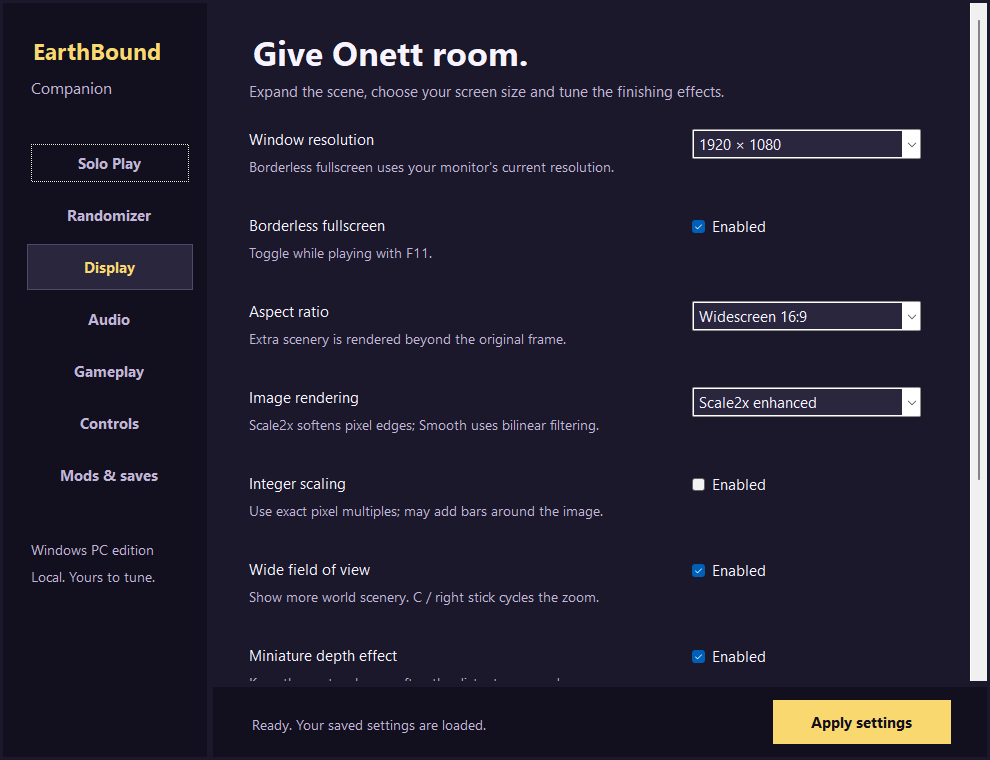
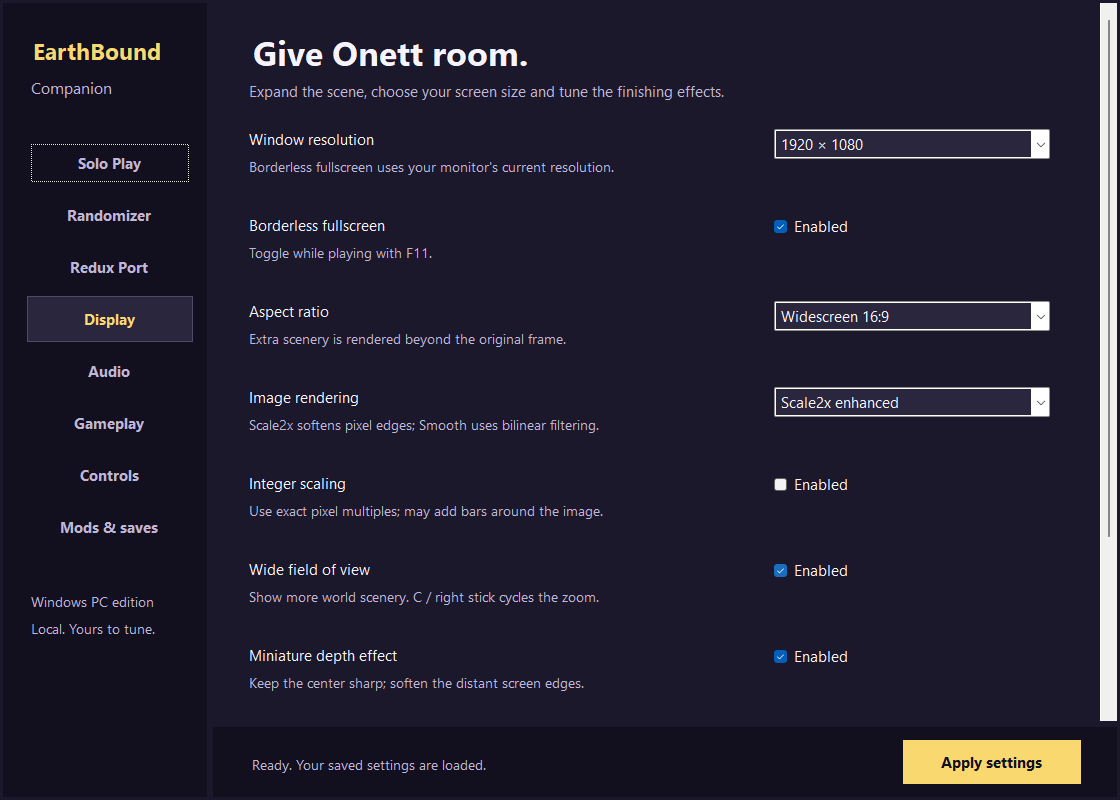
Show MaternalBound direction and refresh screenshots

diff --git a/Companion/MaternalBoundPage.cs b/Companion/MaternalBoundPage.cs
@@ -1,0 +1,34 @@
+namespace EarthBoundCompanion;
+
+sealed partial class MainForm {
+ void MaternalBoundPage(){
+  Header("MaternalBound goes native.","The project is converting MaternalBound Redux into the PC edition—not merely running its ROM patch through an emulator.");
+
+  var statusCard=new TableLayoutPanel(){Height=88,ColumnCount=2,RowCount=1,BackColor=Theme.Surface,Padding=new Padding(18,13,18,13),Margin=new Padding(0,4,0,14)};
+  statusCard.ColumnStyles.Add(new ColumnStyle(SizeType.Percent,72));statusCard.ColumnStyles.Add(new ColumnStyle(SizeType.Percent,28));
+  var statusText=new FlowLayoutPanel(){Dock=DockStyle.Fill,FlowDirection=FlowDirection.TopDown,WrapContents=false,Margin=Padding.Empty};
+  var statusTitle=Theme.Text("Native Redux conversion",15);statusTitle.Font=Theme.Font(15,FontStyle.Bold);statusTitle.Margin=new Padding(0,0,0,3);
+  statusText.Controls.Add(statusTitle);statusText.Controls.Add(Theme.Text("Active development · v0.5",10,Theme.Muted));statusCard.Controls.Add(statusText,0,0);
+  var badge=Theme.Text("PORT IN PROGRESS",10,Theme.Gold);badge.Font=Theme.Font(10,FontStyle.Bold);badge.Dock=DockStyle.Fill;badge.TextAlign=ContentAlignment.MiddleRight;badge.AutoSize=false;statusCard.Controls.Add(badge,1,0);page.Controls.Add(statusCard);
+
+  Section("The edition we are building");
+  page.Controls.Add(Theme.Text("MaternalBound Redux's restored writing, presentation and fixes · Native x64 gameplay · HD and ultrawide output · MSU music · PC controls and settings · QoL profiles · Safe randomized adventures",11));
+
+  var stages=new TableLayoutPanel(){Height=180,ColumnCount=2,RowCount=1,Margin=new Padding(0,4,0,8)};
+  stages.ColumnStyles.Add(new ColumnStyle(SizeType.Percent,50));stages.ColumnStyles.Add(new ColumnStyle(SizeType.Percent,50));
+  stages.Controls.Add(PortCard("WORKING NOW",Theme.Green,"Official Redux source builds locally\nNative conversion bridge and asset inventory\n190 script modules and 7,840 labels indexed\nVersioned asset, save and seed profiles\nRandomizer rejects unaudited content"),0,0);
+  stages.Controls.Add(PortCard("BEING CONVERTED",Theme.Gold,"Rewritten dialogue and event scripts\nRedux graphics, data and encounter changes\n65816 assembly behavior in native C\nMaternalBound progression policy\nStart-to-ending gameplay verification"),1,0);
+  page.Controls.Add(stages);
+
+  Section("Story Shuffle v3");
+  page.Controls.Add(Theme.Text("Every seed is tied to its exact game edition, asset hash, safety policy and save folder. MaternalBound generation stays locked until its native data and progression audit are complete, protecting adventures from mixed-version saves and known progression failures.",11,Theme.Muted));
+  page.Controls.Add(Theme.Text("Current public test build: original EarthBound story. MaternalBound Redux gameplay will be enabled only after the native conversion and its safety checks pass.",10,Theme.Muted));
+ }
+
+ static Panel PortCard(string title,Color color,string body){
+  var card=new Panel(){Dock=DockStyle.Fill,BackColor=Theme.Rail,Padding=new Padding(18,16,18,12),Margin=new Padding(0,0,10,0)};
+  var stack=new FlowLayoutPanel(){Dock=DockStyle.Fill,FlowDirection=FlowDirection.TopDown,WrapContents=false,Margin=Padding.Empty};
+  var heading=Theme.Text(title,10,color);heading.Font=Theme.Font(10,FontStyle.Bold);heading.Margin=new Padding(0,0,0,10);stack.Controls.Add(heading);
+  var copy=Theme.Text(body,10,Theme.Muted);copy.MaximumSize=new Size(330,0);copy.Margin=Padding.Empty;stack.Controls.Add(copy);card.Controls.Add(stack);return card;
+ }
+}

diff --git a/Companion/Program.cs b/Companion/Program.cs
@@ -56,7 +56,7 @@ sealed partial class MainForm : Form {
  Settings settings=Settings.Load();readonly FlowLayoutPanel nav=new(),page=new();readonly Label status=new();
  readonly System.Windows.Forms.Timer timer=new(){Interval=350};readonly Dictionary<string,Button> navigation=[];
  Process? game;string current="Solo Play";bool settingsRequested;bool captureMode;int captureIndex;string captureDir="";bool capturePrepared;bool captureScrolled;
- readonly string[] pages=["Solo Play","Randomizer","Display","Audio","Gameplay","Controls","Mods & saves"];
+ readonly string[] pages=["Solo Play","Randomizer","Redux Port","Display","Audio","Gameplay","Controls","Mods & saves"];
  public MainForm(string[] args){
   Text="EarthBound Companion";Font=Theme.Font();BackColor=Theme.Canvas;ForeColor=Theme.Ink;ClientSize=new Size(1120,800);MinimumSize=new Size(990,760);StartPosition=FormStartPosition.CenterScreen;
   if(args.Contains("--compact"))ClientSize=new Size(990,760);
@@ -89,7 +89,7 @@ sealed partial class MainForm : Form {
  void ShowPage(string name){
   current=name;page.SuspendLayout();foreach(Control c in page.Controls.Cast<Control>().ToArray())c.Dispose();page.Controls.Clear();page.AutoScrollPosition=Point.Empty;
   foreach(var (n,b) in navigation){b.BackColor=n==name?Theme.Surface:Theme.Rail;b.ForeColor=n==name?Theme.Gold:Theme.Muted;b.FlatAppearance.BorderColor=n==name?Theme.Line:Theme.Rail;}
-  switch(name){case "Solo Play":PlayPage();break;case "Randomizer":RandomizerPage();break;case "Display":DisplayPage();break;case "Audio":AudioPage();break;case "Gameplay":GameplayPage();break;case "Controls":ControlsPage();break;default:ModsPage();break;}
+  switch(name){case "Solo Play":PlayPage();break;case "Randomizer":RandomizerPage();break;case "Redux Port":MaternalBoundPage();break;case "Display":DisplayPage();break;case "Audio":AudioPage();break;case "Gameplay":GameplayPage();break;case "Controls":ControlsPage();break;default:ModsPage();break;}
   page.Controls.Add(new Panel {Height=32,Margin=Padding.Empty});
   ResizePage();page.ResumeLayout();
  }

diff --git a/README.md b/README.md
@@ -1,11 +1,11 @@
 # EarthBound Companion
 
-**A ROM-free native Windows PC edition of EarthBound with a guided launcher, modern display options, quality-of-life controls, native MSU music, and a progression-conscious randomizer.**
+**A native Windows adaptation of EarthBound that is now evolving into a MaternalBound Redux PC edition with HD and ultrawide output, native MSU music, PC settings, quality-of-life options, mod profiles, and a progression-conscious randomizer.**
 
 > [!WARNING]
-> **The current v0.4.0 build uses the original EarthBound (USA) story and does not contain MaternalBound Redux.** Its MSU player understands Redux's soundtrack loop data, but Redux's rewritten script, graphics, data, and 65816 code have not yet been converted to native C. The active port is tracked in [MATERNALBOUND-NATIVE.md](MATERNALBOUND-NATIVE.md).
+> **The downloadable v0.4.0 preview uses the original EarthBound (USA) story and does not contain MaternalBound Redux.** The main v0.5 development branch has the native Redux compiler bridge, a dedicated launcher status page, and Story Shuffle v3's content profiles. Redux gameplay is still being converted and is not yet shipped. Progress is tracked in [MATERNALBOUND-NATIVE.md](MATERNALBOUND-NATIVE.md).
 
-The main source now contains Story Shuffle v3's content-profile foundation. Seeds bind to the exact selected game version, asset hash, progression policy and save namespace. MaternalBound randomization remains locked until the converted Redux pack and its separate progression audit pass; this prevents a partially ported profile from generating softlocked seeds.
+The target is one polished PC edition: MaternalBound Redux's restored writing, art, fixes, and presentation running through the native engine alongside Companion's display, audio, input, save, QoL, mod, and randomizer features. Story Shuffle v3 binds every seed to the exact selected game version, asset hash, progression policy, and save namespace. MaternalBound randomization remains locked until the converted Redux pack and its separate progression audit pass, preventing a partially ported profile from generating unsafe seeds.
 
 > [!IMPORTANT]
 > This project does **not** contain an EarthBound ROM, extracted Nintendo assets, soundtrack audio, saves, or screenshots from the game. You must provide your own legally obtained clean **EarthBound (USA)** ROM. Companion verifies it and builds the required native data locally. We do not condone piracy.
@@ -14,16 +14,16 @@ The main source now contains Story Shuffle v3's content-profile foundation. Seed
 
 ## Companion at a glance
 
-These captures come from the ROM-free package before game-data setup. They contain no extracted game artwork or screenshots.
+These are real captures from the ROM-free v0.5 development launcher before game-data setup. They contain no extracted game artwork or gameplay screenshots.
 
 <table>
   <tr>
-    <td width="50%"><img src="docs/images/solo-play.png" alt="Solo Play and first-run ROM setup"></td>
-    <td width="50%"><img src="docs/images/story-shuffle.png" alt="Story Shuffle randomizer options"></td>
+    <td width="50%"><img src="docs/images/redux-port.png" alt="MaternalBound Redux native port status"></td>
+    <td width="50%"><img src="docs/images/story-shuffle-v3.png" alt="Story Shuffle v3 randomizer options"></td>
   </tr>
   <tr>
-    <td align="center"><strong>Guided ROM setup and Solo Play</strong></td>
-    <td align="center"><strong>Story Shuffle v2</strong></td>
+    <td align="center"><strong>MaternalBound Redux native-port status</strong></td>
+    <td align="center"><strong>Story Shuffle v3 content-safe randomizer</strong></td>
   </tr>
   <tr>
     <td width="50%"><img src="docs/images/display-settings.png" alt="Resolution, widescreen and rendering settings"></td>
@@ -32,6 +32,14 @@ These captures come from the ROM-free package before game-data setup. They conta
   <tr>
     <td align="center"><strong>HD, widescreen and rendering controls</strong></td>
     <td align="center"><strong>Native MSU audio setup</strong></td>
+  </tr>
+  <tr>
+    <td width="50%"><img src="docs/images/solo-play.png" alt="Solo Play and first-run ROM setup"></td>
+    <td width="50%"><img src="docs/images/mods-saves.png" alt="Native mod profiles, asset packs, saves and recovery"></td>
+  </tr>
+  <tr>
+    <td align="center"><strong>Guided ROM setup and Solo Play</strong></td>
+    <td align="center"><strong>Native profiles, asset packs and save recovery</strong></td>
   </tr>
 </table>
 
@@ -70,9 +78,9 @@ First-run setup can download all 164 PCM tracks from [ShadowOne333’s EarthBoun
 
 The PCM files are not stored in this repository or the release ZIP. See [CREDITS.md](CREDITS.md) for provenance.
 
-## Story Shuffle v2
+## Story Shuffle v3
 
-Companion includes its own native randomizer for replayable original-story runs:
+Companion includes its own native randomizer for replayable adventures:
 
 - eligible optional NPC gifts;
 - shop inventory;
@@ -81,14 +89,16 @@ Companion includes its own native randomizer for replayable original-story runs:
 - deterministic seed recipes;
 - isolated saves, screenshots and recovery backups for every seed.
 
-The generator keeps 78 identified quest/trade items and their original sources fixed, preserves 52 scripted-battle records, and leaves maps, doors, routes, scripts, bosses, prices and starting items unchanged. Independent guards run at generation and before launch. This protects the audited original-story dependencies; it is not proof of every possible full playthrough.
+The generator keeps 78 identified quest/trade items and their original sources fixed, preserves 52 scripted-battle records, and leaves maps, doors, routes, scripts, bosses, prices and starting items unchanged. Independent guards run at generation and before launch. Version 3 also isolates game editions: content ID, exact asset hash, safety policy, seed identity, and save folder must agree. This protects the audited original-story dependencies; it is not proof of every possible full playthrough.
+
+MaternalBound Redux will receive its own progression policy after its scripts and tables are converted. Until that audit passes, Story Shuffle refuses to generate a Redux seed rather than guessing about progression.
 
 This generator is inspired by the EarthBound randomizer community but does not claim seed parity with [earthbound.app](https://earthbound.app/) or [stochaztic/eb-randomizer](https://github.com/stochaztic/eb-randomizer). Ancient Cave, Open mode and Keysanity are not implemented. See [RANDOMIZER.md](RANDOMIZER.md).
 
 ## Current boundaries
 
 - A complete start-to-ending playthrough of this specific build has not yet been verified.
-- [MaternalBound Redux](https://github.com/ShadowOne333/MaternalBound-Redux) is researched and credited, but its ROM-side assembly and script changes have not been ported into the native C game.
+- [MaternalBound Redux](https://github.com/ShadowOne333/MaternalBound-Redux) is now an active native conversion target. The official source builds locally and the bridge inventory is generated, but the rewritten scripts, data, graphics, and 65816 behavior are not yet playable in the native game.
 - Arbitrary IPS, BPS and EBP patches cannot be loaded as native mods; their game-code changes require explicit ports.
 - The release is a Windows x64 private test build. Bug reports should include `UserData/game.log` and a normal phone save when possible.
 
@@ -124,6 +134,6 @@ The upstream EarthBound repositories used for the native foundation are public b
 
 ## Verification
 
-The v0.4.0 package passed clean-ZIP first-run extraction, exact asset-pack comparison, Companion self-tests, seed safety validation, and all 164 installed MSU checks. The archive was scanned and contained zero ROM, `.pak`, PCM, save, state or screenshot files. Exact hashes and coverage limits are in [validation/TESTER-PACKAGE-REPORT.md](validation/TESTER-PACKAGE-REPORT.md).
+The v0.4.0 package passed clean-ZIP first-run extraction, exact asset-pack comparison, Companion self-tests, seed safety validation, and all 164 installed MSU checks. The archive was scanned and contained zero ROM, `.pak`, PCM, save, state or screenshot files. The v0.5 development source additionally passed Story Shuffle v3's content-profile and save-isolation tests across 1,000 seeds and all 30 option combinations. Exact hashes and coverage limits are in [validation/](validation/).
 
 Issues and contributions should never attach ROMs, extracted assets, copyrighted screenshots, saves containing embedded game data, or soundtrack files.

diff --git a/MATERNALBOUND-NATIVE.md b/MATERNALBOUND-NATIVE.md
@@ -1,8 +1,12 @@
 # MaternalBound Redux native port
 
+![EarthBound Companion's MaternalBound Redux native-port status screen](docs/images/redux-port.png)
+
+The project direction is now explicit: combine MaternalBound Redux's restored writing, art, fixes, and presentation with Companion's native x64 engine, HD and ultrawide display, MSU music, PC settings, QoL profiles, save recovery, and content-safe randomizer. It is a direct native adaptation effort, not a plan to run the patched ROM through an embedded emulator.
+
 ## Current player-facing status
 
-EarthBound Companion v0.4.0 does **not** contain MaternalBound Redux. It launches the original EarthBound (USA) story data with Companion's native display, input, MSU, quality-of-life, save, and Story Shuffle features.
+EarthBound Companion v0.4.0 does **not** contain MaternalBound Redux. It launches the original EarthBound (USA) story data with Companion's native display, input, MSU, quality-of-life, save, and Story Shuffle features. The main v0.5 development source adds the conversion bridge, visible port-status page, and content-aware randomizer foundation; it still does not claim playable Redux content.
 
 The current MSU player includes Redux-compatible track loop behavior. That compatibility does not import Redux's rewritten script, uncensored graphics, enemy and character art, tables, controls, bug fixes, or 65816 routines.
 

diff --git a/CHANGELOG.md b/CHANGELOG.md
@@ -3,6 +3,8 @@
 ## 0.5.0 — in development
 
 - Began the explicit native MaternalBound Redux conversion path with a locally repaired CoilSnake/CCScript toolchain and a generated module/label bridge manifest.
+- Added a player-facing Redux Port page that shows the final edition target, completed bridge work, remaining conversion areas, and randomizer safety gate.
+- Replaced the repository's launcher gallery with current v0.5 captures, including the Redux conversion and Story Shuffle v3 screens.
 - Added Story Shuffle v3 content profiles. Seeds now bind to the exact game version, asset hash, progression policy and save namespace; unaudited packs remain locked from randomization.
 - Preserved version 1 and 2 seed folders and saves for recovery.
 
